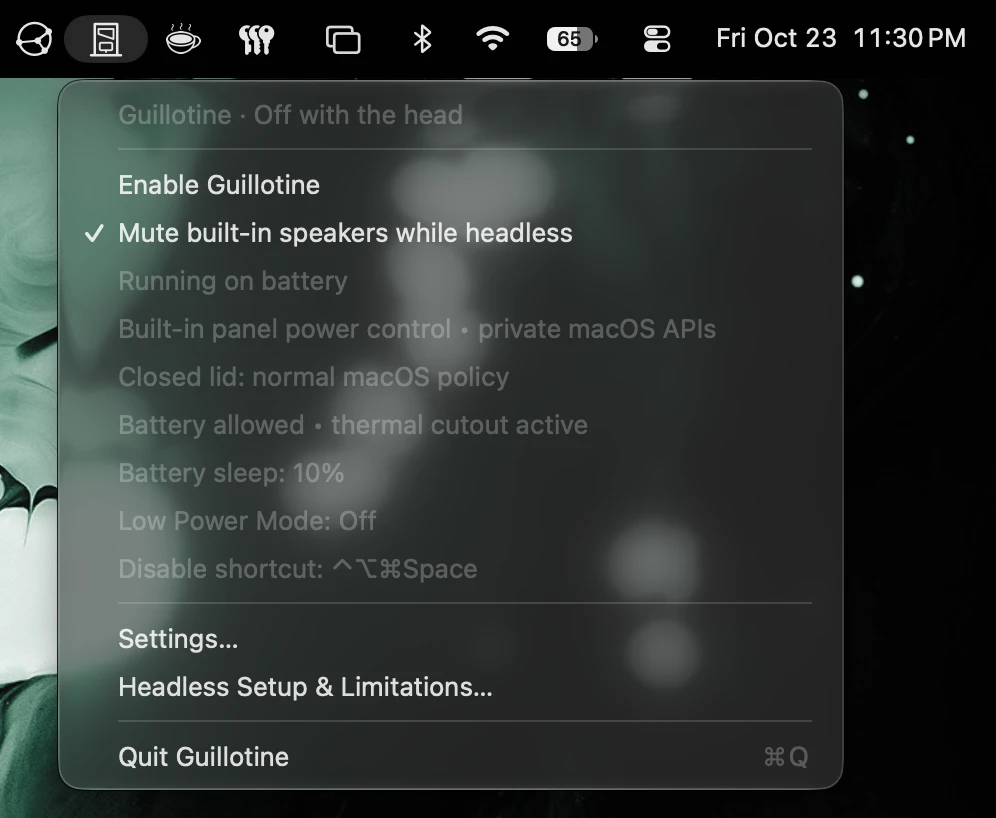
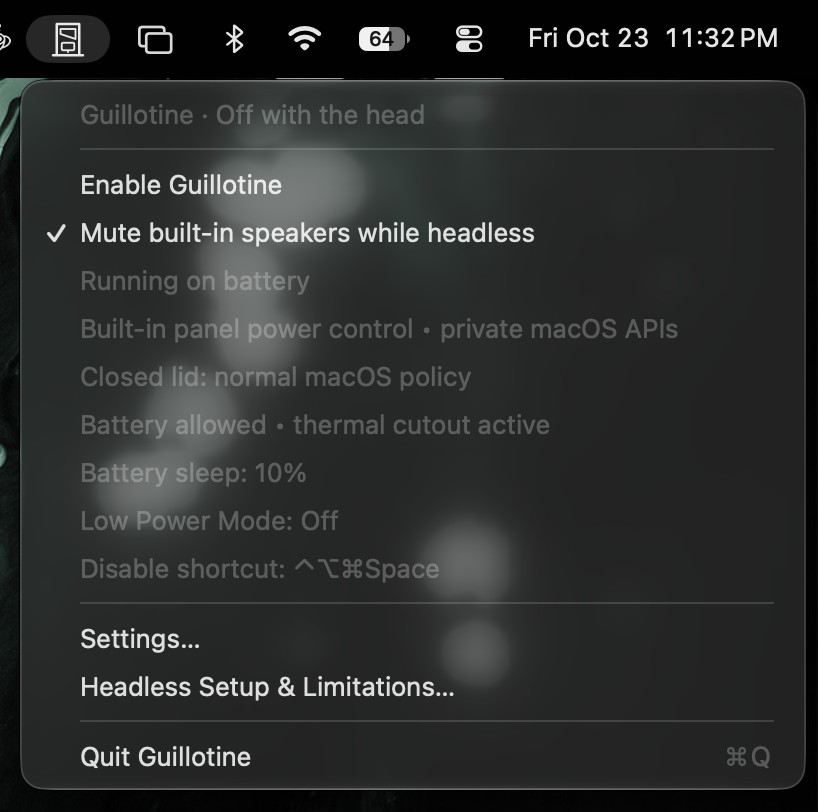
Crop the README's menu shot closer
A tighter shot of the same menu, with fewer menu bar icons beside it.

diff --git a/README.md b/README.md
@@ -3,7 +3,7 @@
 **Off with the head.** A native menu bar switch that powers off an Apple Silicon MacBook’s physical panel and keyboard backlight while retaining its logical display for remote access.
 
 <p align="center">
-  <img src="docs/screenshots/guillotine-menu.png" width="498" alt="Guillotine's menu on a MacBook running on battery: Enable Guillotine, Mute built-in speakers while headless (checked), status lines for battery, built-in panel power control, the closed-lid policy, battery sleep, Low Power Mode, and the disable shortcut, then Settings, Headless Setup & Limitations, and Quit.">
+  <img src="docs/screenshots/guillotine-menu.png" width="409" alt="Guillotine's menu on a MacBook running on battery: Enable Guillotine, Mute built-in speakers while headless (checked), status lines for battery, built-in panel power control, the closed-lid policy, battery sleep, Low Power Mode, and the disable shortcut, then Settings, Headless Setup & Limitations, and Quit.">
 </p>
 
 **Keep the lid open for the current supported workflow.** Enable Guillotine to turn off the panel and keyboard backlight, then use Caffeine independently if you want to prevent idle sleep. With the lid open, Guillotine immediately requests panel-off when macOS re-enables the built-in display; other display changes wait for the layout to settle. Panel power is not rewritten every second. No brightness-zero substitute is used for the panel.
